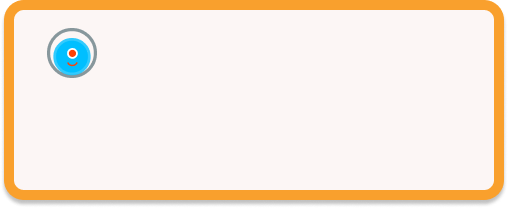
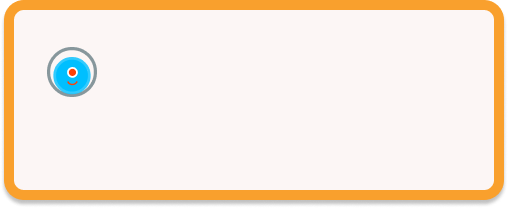
Update popup window, Fix. Error with  Delete StateCircle

Changed region(s): [[0.0886, 0.1154, 0.2067, 0.4904]]

diff --git a/src/classes/PopupWindow.ts b/src/classes/PopupWindow.ts
@@ -6,7 +6,11 @@ const popupTypeConfig = [
   { id: 'smAlert', texture: 'popupSmAlert' },
   { id: 'md', texture: 'popupMd' },
   { id: 'mdAlert', texture: 'popupMdAlert' },
-  { id: 'default', texture: 'popupMd' },
+  { id: 'default', texture: 'popupSm' },
+  { id: 'smInfinite', texture: 'popupInfinite' },
+  { id: 'smBoundary', texture: 'popupBoundary' },
+  { id: 'smStateDelete', texure: 'popupSm' },
+  { id: 'smBackBtn', texture: 'popupSm' },
 ];
 
 export default class PopupWindow extends Phaser.GameObjects.Container {
@@ -18,13 +22,13 @@ export default class PopupWindow extends Phaser.GameObjects.Container {
   constructor(
     scene: Phaser.Scene,
     popupType: string,
-    popupText: string,
-    isBtnOption: boolean
+    isBtnOption: boolean,
+    popupText?: string
   ) {
     super(scene);
 
     this.popupType = popupType;
-    this.popupText = popupText;
+    this.popupText = popupText ? popupText : '';
     this.isBtnOption = isBtnOption;
   }
 
@@ -42,9 +46,9 @@ export default class PopupWindow extends Phaser.GameObjects.Container {
       this.scene.cameras.main.centerY
     );
 
-    console.log('Popup window 그립니다.');
+    console.log('Popup window 그립니다.', this.popupType);
     const texture =
-      popupTypeConfig.find((typeConfig) => typeConfig.id === popupType)
+      popupTypeConfig.find((typeConfig) => typeConfig.id === this.popupType)
         ?.texture ||
       popupTypeConfig.find((typeConfig) => typeConfig.id === 'default')
         ?.texture ||
@@ -55,7 +59,7 @@ export default class PopupWindow extends Phaser.GameObjects.Container {
     this.popupWindow.add(popupImage);
 
     if (isBtnOption) {
-      const text = this.scene.add.text(-135, -73, popupText, {
+      const text = this.scene.add.text(-135, -60, popupText, {
         fontSize: '25px',
         fontFamily: 'Roboto Condensed',
         color: '#1B1C1D',
@@ -80,7 +84,11 @@ export default class PopupWindow extends Phaser.GameObjects.Container {
           duration: 500,
           onComplete: () => {
             this.popupWindow.setVisible(false);
-            this.scene.events.emit('popupResponse', true);
+            if (this.popupType === 'smBackBtn') {
+              this.scene.events.emit('backPopupResponse', true);
+            } else if (this.popupType === 'smStateDelete') {
+              this.scene.events.emit('deletePopupResponse', true);
+            }
           },
         });
       });
@@ -101,7 +109,11 @@ export default class PopupWindow extends Phaser.GameObjects.Container {
           duration: 500,
           onComplete: () => {
             this.popupWindow.setVisible(false);
-            this.scene.events.emit('popupResponse', false);
+            if (this.popupType === 'smBackBtn') {
+              this.scene.events.emit('backPopupResponse', false);
+            } else if (this.popupType === 'smStateDelete') {
+              this.scene.events.emit('deletePopupResponse', false);
+            }
           },
         });
       });
@@ -111,7 +123,7 @@ export default class PopupWindow extends Phaser.GameObjects.Container {
       this.popupWindow.add(noBtn);
       this.popupWindow.add(text);
     } else {
-      const text = this.scene.add.text(-135, -73, popupText, {
+      const text = this.scene.add.text(-135, -60, popupText, {
         fontSize: '25px',
         fontFamily: 'Roboto Condensed',
         color: '#1B1C1D',

diff --git a/src/classes/TaskHelper.ts b/src/classes/TaskHelper.ts
@@ -208,6 +208,19 @@ export default class TaskHelper {
               move
             );
             if (!moveSuccessful) {
+              this.scene.sound.play('mistakeSound', { volume: 0.5 });
+              setTimeout(() => {
+                const diagramScene = this.scene.scene.get(
+                  'DiagramScene'
+                ) as DiagramScene;
+                diagramScene.popupWindow = new PopupWindow(
+                  diagramScene,
+                  'smBoundary',
+                  false
+                );
+                diagramScene.popupWindow.create();
+                diagramScene.add.existing(diagramScene.popupWindow);
+              }, 800);
               console.log('경계선을 넘어갈 수 없음');
               return;
             }
@@ -265,14 +278,14 @@ export default class TaskHelper {
     this.processStateInputData(stateInputData, highlightOn, () => {
       if (this.wasInfiniteLoopDetected()) {
         // Display infinite loop warning popup
+        this.scene.sound.play('mistakeSound', { volume: 0.5 });
         setTimeout(() => {
           const diagramScene = this.scene.scene.get(
             'DiagramScene'
           ) as DiagramScene;
           diagramScene.popupWindow = new PopupWindow(
             diagramScene,
-            'smAlert',
-            `" Oops! \n  Looks like we're going in circles! \n  Check your instructions again.    "`,
+            'smInfinite',
             false
           );
           diagramScene.popupWindow.create();
@@ -292,30 +305,33 @@ export default class TaskHelper {
               diagramScene.popupWindow = new PopupWindow(
                 diagramScene,
                 'sm',
-                mission.getSuccessMessage(),
-                false
+                false,
+                mission.getSuccessMessage()
               );
               diagramScene.popupWindow.create();
               diagramScene.add.existing(diagramScene.popupWindow);
             }, 800);
 
-            this.scene.events.emit('simulationEnd');
+            // this.scene.events.emit('simulationEnd');
           }
         } else {
+          this.scene.sound.play('missionFailSound');
           setTimeout(() => {
             diagramScene.popupWindow = new PopupWindow(
               diagramScene,
               'smAlert',
-              mission.getFailureMessage(),
-              false
+              false,
+              mission.getFailureMessage()
             );
             diagramScene.popupWindow.create();
             diagramScene.add.existing(diagramScene.popupWindow);
           }, 800);
-          this.scene.events.emit('simulationEnd');
+
+          // this.scene.events.emit('simulationEnd');
         }
         console.log(positionsCorrect ? 'Success' : 'Fail');
       }
+      this.scene.events.emit('simulationEnd');
     });
   };
 

diff --git a/src/tasks/TestFlight.ts b/src/tasks/TestFlight.ts
@@ -39,70 +39,6 @@ export default class TestFlight extends Phaser.GameObjects.Container {
     this.taskHelper.executeSimulation(this, stateInputData, highlightOn);
   };
 
-  // executeSimulation = (stateInputData: any, highlightOn: boolean) => {
-  //   this.taskHelper.processStateInputData(stateInputData, highlightOn, () => {
-  //     if (this.taskHelper.wasInfiniteLoopDetected()) {
-  //       // Display infinite loop warning popup
-  //       setTimeout(() => {
-  //         const diagramScene = this.scene.scene.get(
-  //           'DiagramScene'
-  //         ) as DiagramScene;
-  //         diagramScene.popupWindow = new PopupWindow(
-  //           diagramScene,
-  //           'smAlert',
-  //           `" Oops! \n  Looks like we're going in circles! \n  Check your instructions again.    "`,
-  //           false
-  //         );
-  //         diagramScene.popupWindow.create();
-  //         diagramScene.add.existing(diagramScene.popupWindow);
-  //       }, 800);
-  //       this.scene.events.emit('simulationEnd');
-  //     } else {
-  //       const positionsCorrect = this.checkObjectPositions();
-
-  //       if (!this.isSuccessPopupShowed) {
-  //         if (positionsCorrect) {
-  //           const diagramScene = this.scene.scene.get(
-  //             'DiagramScene'
-  //           ) as DiagramScene;
-
-  //           setTimeout(() => {
-  //             diagramScene.popupWindow = new PopupWindow(
-  //               diagramScene,
-  //               'sm',
-  //               `" Congratulations on completing \n   your first mission! "`,
-  //               false
-  //             );
-  //             diagramScene.popupWindow.create();
-  //             diagramScene.add.existing(diagramScene.popupWindow);
-  //           }, 800);
-
-  //           this.isSuccessPopupShowed = true;
-  //           this.scene.events.emit('simulationEnd');
-  //         } else {
-  //           const diagramScene = this.scene.scene.get(
-  //             'DiagramScene'
-  //           ) as DiagramScene;
-
-  //           setTimeout(() => {
-  //             diagramScene.popupWindow = new PopupWindow(
-  //               diagramScene,
-  //               'smAlert',
-  //               `" So close! \n  Would you like to try again? "`,
-  //               false
-  //             );
-  //             diagramScene.popupWindow.create();
-  //             diagramScene.add.existing(diagramScene.popupWindow);
-  //           }, 800);
-  //           this.scene.events.emit('simulationEnd');
-  //         }
-  //       }
-
-  //       console.log(positionsCorrect ? 'Success' : 'Fail');
-  //     }
-  //   });
-  // };
-
   checkObjectPositions(): boolean {
     const isPlayerAt355315 = this.scene.children.list.some(
       (child) => child instanceof Player && child.x === 355 && child.y === 315

diff --git a/src/classes/InputLabel.ts b/src/classes/InputLabel.ts
@@ -1,5 +1,6 @@
 import Phaser from 'phaser';
 import DiagramScene from '../scenes/DiagramScene';
+import PopupWindow from './PopupWindow';
 import StateCircle from './StateCircle';
 
 export default class InputLabel extends Phaser.GameObjects.Container {
@@ -61,8 +62,34 @@ export default class InputLabel extends Phaser.GameObjects.Container {
       } else {
         this.timerEvent = scene.time.addEvent({
           delay: 1000, // 1초 후에 실행
-          callback: this.deleteInputLabel,
+          // callback: this.deleteInputLabel,
+          callback: () => {
+            // Timer Event가 실행되면 Popup Window 생성
+            this.scene.sound.play('backButtonSound'); // 필요한 경우 사운드 추가
+            const popupWindow = new PopupWindow(
+              this.scene,
+              'smStateDelete',
+              true,
+              `" Are you sure you want to \n    delete this state? "`
+            );
+            popupWindow.create();
+            this.scene.add.existing(popupWindow);
+
+            // Popup Window 이벤트 핸들러
+            this.scene.events.once(
+              'deletePopupResponse',
+              (response: boolean) => {
+                if (response) {
+                  // Yes를 눌렀을 경우 Label 삭제 로직 실행
+                  this.deleteInputLabel();
+                }
+                // No를 누르거나 팝업이 닫힐 경우 아무것도 하지
+                return;
+              }
+            );
+          },
           callbackScope: this,
+          repeat: 0,
         });
       }
       this.lastClickTime = currentTime;
@@ -189,7 +216,7 @@ export default class InputLabel extends Phaser.GameObjects.Container {
   };
 
   private deleteInputLabel = (): void => {
-    console.log('LongPress event - StateCircle 삭제');
+    console.log('LongPress event - StateCircle 삭제', 'stateId', this.stateId);
 
     // DiagramScene 참조
     const diagramScene = this.scene.scene.get('DiagramScene') as DiagramScene;

diff --git a/src/classes/sprites/Player.ts b/src/classes/sprites/Player.ts
@@ -109,41 +109,6 @@ export default class Player extends BaseSprite {
     return new Promise((resolve) => setTimeout(resolve, ms));
   };
 
-  /** Methods for Moves */
-  // moveForward = async () => {
-  //   // console.log('moveForward 함수 실행');
-  //   // hightlightSelected && this.playerHighlight.setVisible(true);
-  //   // this.scene.add.existing(this.playerHighlight);
-  //   const angle = this.angle % 360;
-
-  //   switch (angle) {
-  //     case 90:
-  //     case -270:
-  //       await this.delay(500);
-  //       this.x += 50;
-  //       this.playerHighlight.x = this.x;
-  //       break;
-  //     case 180:
-  //     case -180:
-  //       await this.delay(500);
-  //       this.y += 50;
-  //       this.playerHighlight.y = this.y;
-  //       break;
-  //     case 270:
-  //     case -90:
-  //       await this.delay(500);
-  //       this.x -= 50;
-  //       this.playerHighlight.x = this.x;
-  //       break;
-  //     case 0:
-  //       await this.delay(500);
-  //       this.y -= 50;
-  //       this.playerHighlight.y = this.y;
-  //       break;
-  //     default:
-  //       console.log('Invalid angle');
-  //   }
-  // };
   moveForward = async (): Promise<boolean> => {
     // Calculate the next position based on the current angle
     let nextX = this.x;

diff --git a/src/classes/StateCircleManager.ts b/src/classes/StateCircleManager.ts
@@ -119,12 +119,19 @@ export default class StateCircleManager {
       console.error('InputWindow not found with id:', id);
       return;
     } else {
-      const previousStateCircle =
-        this.diagramScene.stateCircleManager.getStateCircleById(id - 1);
-      if (previousStateCircle) {
-        previousStateCircle.emit('pointerdown');
+      // const previousStateCircle =
+      //   this.diagramScene.stateCircleManager.getStateCircleById(id - 1);
+      // if (previousStateCircle) {
+      //   previousStateCircle.emit('pointerdown');
+      // } else {
+      //   console.error('Cannot find previous StateCircle of ID', id);
+      // }
+      const startStateCircle =
+        this.diagramScene.stateCircleManager.getStateCircleById(0);
+      if (startStateCircle) {
+        startStateCircle.emit('pointerdown');
       } else {
-        console.error('Cannot find previous StateCircle of ID', id);
+        console.error('Cannot find StartStateCircle');
       }
 
       inputWindowToDelete.destroy();

diff --git a/src/classes/UIManager.ts b/src/classes/UIManager.ts
@@ -407,14 +407,14 @@ export default class UIManager {
       this.diagramScene.sound.play('backButtonSound');
       this.diagramScene.popupWindow = new PopupWindow(
         this.diagramScene,
-        'smBack',
-        `" Would you like to return to \n   the menu? "`,
-        true
+        'smBackBtn',
+        true,
+        `" Would you like to return to \n   the menu? "`
       );
       this.diagramScene.popupWindow.create();
       this.diagramScene.add.existing(this.diagramScene.popupWindow);
 
-      this.diagramScene.events.on('popupResponse', (response: boolean) => {
+      this.diagramScene.events.on('backPopupResponse', (response: boolean) => {
         if (response) {
           this.diagramScene.cameras.main.fadeOut(
             500,

diff --git a/src/scenes/Game.ts b/src/scenes/Game.ts
@@ -102,6 +102,8 @@ export default class Game extends Phaser.Scene {
       popupNoBtnHover: 'assets/PopupNoHover.png',
       popupOKBtn: 'assets/PopupOK.png',
       popupOKBtnHover: 'assets/PopupOKHover.png',
+      popupInfinite: 'assets/PopupInfinite.png',
+      popupBoundary: 'assets/PopupBoundary.png',
     };
 
     for (let key in imageSources) {
@@ -133,6 +135,7 @@ export default class Game extends Phaser.Scene {
       'missionSuccessSound',
       'assets/sounds/missionSuccessSound.mp3'
     );
+    this.load.audio('missionFailSound', 'assets/sounds/missionFailSound.mp3');
   }
 
   async create(data: GameSceneData) {
